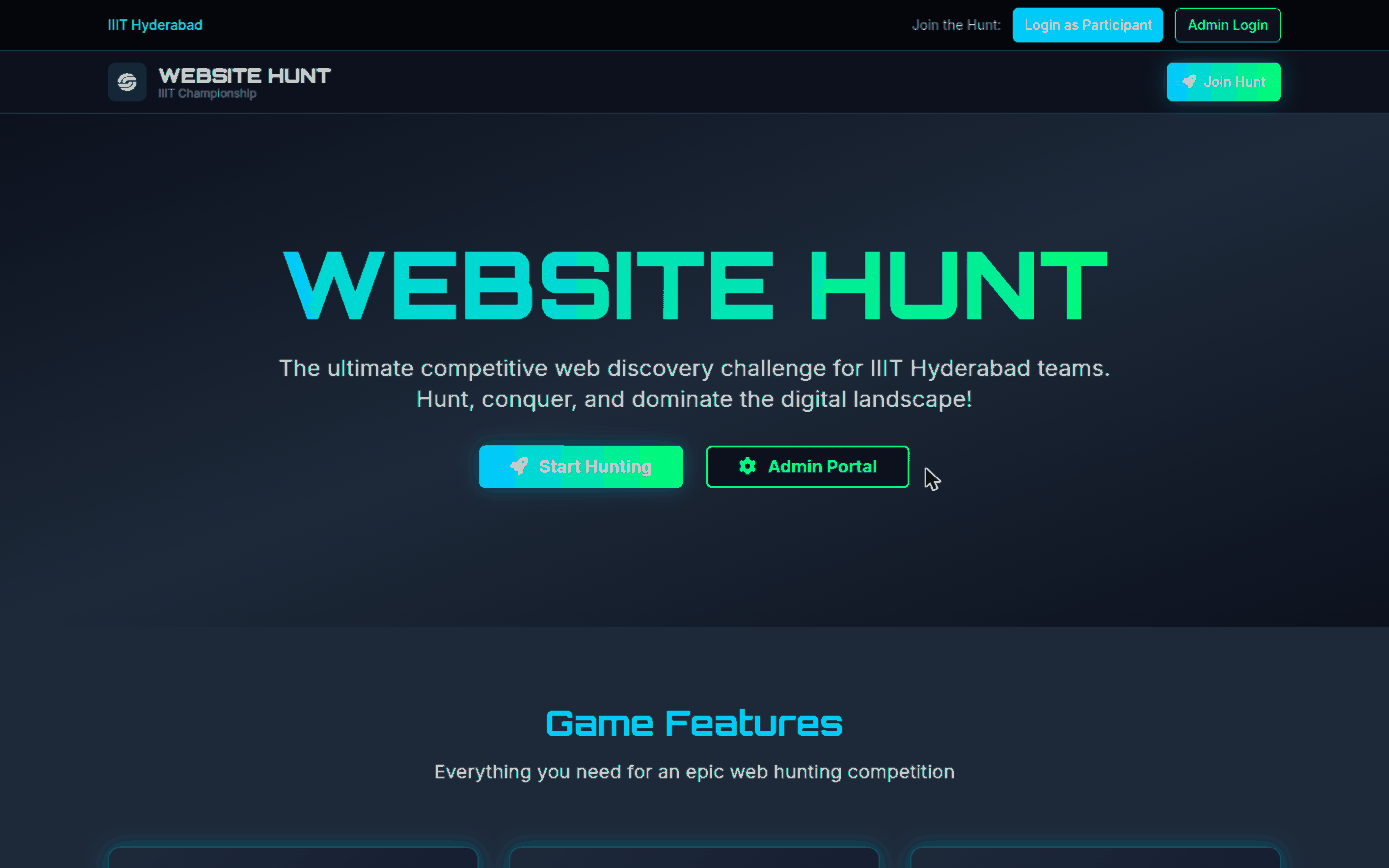
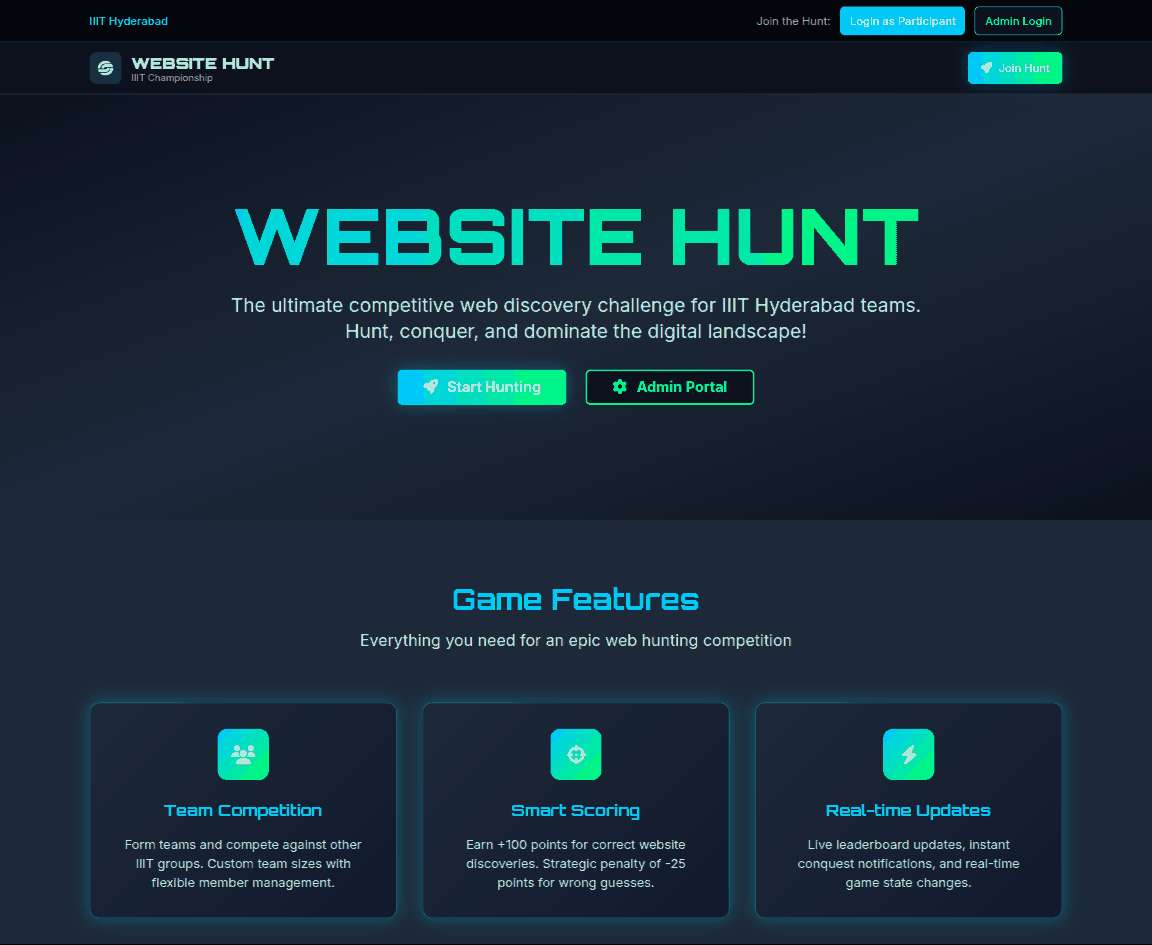
Complete the screenshot gallery with ten screens and a responsive row, and fix the nav breakpoint and admin header overlap they exposed

diff --git a/client/src/components/Navigation.tsx b/client/src/components/Navigation.tsx
@@ -75,13 +75,16 @@ export default function Navigation() {
             {/* Hamburger Menu */}
             <button
               onClick={() => setMenuOpen(!menuOpen)}
-              className="md:hidden text-gray-400 hover:text-white focus:outline-none"
+              className="lg:hidden text-gray-400 hover:text-white focus:outline-none"
             >
               <i className={`fas ${menuOpen ? "fa-times" : "fa-bars"} text-xl`}></i>
             </button>
 
             {/* Desktop Menu */}
-            <div className="hidden md:flex items-center space-x-8">
+            {/* The desktop bar only fits from 1024px: at tablet widths the links,
+                the user block and the admin badge crowd into each other, so the
+                drawer stays in charge up to lg. */}
+            <div className="hidden lg:flex items-center space-x-8">
               {user && (
                 <>
                   <Link
@@ -118,7 +121,7 @@ export default function Navigation() {
             </div>
 
             {/* User Info */}
-            <div className="hidden md:flex items-center space-x-4">
+            <div className="hidden lg:flex items-center space-x-4">
               {isLoading ? (
                 <div className="flex items-center space-x-3">
                   <div className="w-8 h-8 bg-gaming-gray rounded-full animate-pulse"></div>
@@ -177,7 +180,7 @@ export default function Navigation() {
 
         {/* Mobile Menu */}
         {menuOpen && user && (
-          <div className="md:hidden px-4 pb-4 bg-gaming-dark space-y-2">
+          <div className="lg:hidden px-4 pb-4 bg-gaming-dark space-y-2">
             <div className="flex items-center text-sm text-gray-400">
               <i className="fas fa-globe mr-2"></i>Live Game
               <div className="w-2 h-2 bg-neon-green rounded-full ml-2 animate-pulse"></div>

diff --git a/client/src/components/AdminPanel.tsx b/client/src/components/AdminPanel.tsx
@@ -452,7 +452,9 @@ export default function AdminPanel() {
       {activeTab === "teams" && (
         <div className="space-y-6">
           <Card className="conquest-card border-none">
-            <CardHeader className="flex flex-row items-center justify-between">
+            {/* Wraps: on a phone the title and the button are wider than the card
+                together, and without this they overlap. */}
+            <CardHeader className="flex flex-row flex-wrap items-center justify-between gap-3">
               <CardTitle className="text-electric-blue flex items-center">
                 <i className="fas fa-users mr-3"></i>
                 Team Management

diff --git a/README.md b/README.md
@@ -34,6 +34,7 @@ submission for a site that is not on the list is checked live, and counts if it 
 
 - [Why this project matters](#why-this-project-matters)
 - [Screenshots](#screenshots)
+- [Responsive layout](#responsive-layout)
 - [Features](#features)
 - [Roles](#roles)
 - [The game lifecycle](#the-game-lifecycle)
@@ -65,29 +66,86 @@ than pulled from a CDN.
 
 ## Screenshots
 
-Real 1440x900 viewport renders against a seeded instance. **The app ships a single dark
-theme**, so unlike the other projects in this account there is no light gallery and no
-`README-light.md` to toggle to.
+Real viewport renders against a seeded instance with five registered teams and a
+live game running. **The app ships a single dark theme**, so unlike the other
+projects in this account there is no light gallery and no `README-light.md` to
+toggle to.
 
 <table>
   <tr>
-    <td width="50%" valign="top">
-      <img src="./docs/screenshots/01-landing.png" alt="The landing page with the Website Hunt title and game features" loading="lazy">
+    <td width="33%" valign="top">
+      <img src="./docs/screenshots/01-landing.png" alt="Landing page with the Website Hunt title, Start Hunting and Admin Portal buttons, and the game feature cards" loading="lazy">
       <p align="center"><b>Landing</b><br><sub>Where a team starts, before anyone has an account.</sub></p>
     </td>
-    <td width="50%" valign="top">
-      <img src="./docs/screenshots/02-auth.png" alt="The login and register panel beside a summary of the rules" loading="lazy">
-      <p align="center"><b>Sign in</b><br><sub>Register or log in, with the scoring rules alongside.</sub></p>
+    <td width="33%" valign="top">
+      <img src="./docs/screenshots/02-auth.png" alt="Login panel beside a summary of the scoring rules" loading="lazy">
+      <p align="center"><b>Sign in</b><br><sub>Log in, with the scoring rules alongside.</sub></p>
+    </td>
+    <td width="33%" valign="top">
+      <img src="./docs/screenshots/06-register.png" alt="Registration form asking for name, username, email and password" loading="lazy">
+      <p align="center"><b>Register</b><br><sub>Anyone can sign up; an admin puts them on a team.</sub></p>
     </td>
   </tr>
   <tr>
-    <td width="50%" valign="top">
-      <img src="./docs/screenshots/03-dashboard.png" alt="Participant dashboard with total websites, conquered count and a countdown" loading="lazy">
+    <td width="33%" valign="top">
+      <img src="./docs/screenshots/03-dashboard.png" alt="Participant dashboard with total websites, conquered count, active teams and a countdown" loading="lazy">
       <p align="center"><b>Participant</b><br><sub>Live counts, the clock, and your team's standing.</sub></p>
     </td>
-    <td width="50%" valign="top">
-      <img src="./docs/screenshots/04-admin.png" alt="Admin control centre with overview, game control, teams and websites tabs" loading="lazy">
-      <p align="center"><b>Admin</b><br><sub>Run the clock, manage teams, and see discovered sites.</sub></p>
+    <td width="33%" valign="top">
+      <img src="./docs/screenshots/04-conquest.png" alt="A successful conquest showing the points earned and the team's updated score" loading="lazy">
+      <p align="center"><b>A conquest</b><br><sub>The URL is canonicalised before it is sent, then scored.</sub></p>
+    </td>
+    <td width="33%" valign="top">
+      <img src="./docs/screenshots/05-leaderboard.png" alt="Live leaderboard ranking five teams by points, with a global activity feed underneath" loading="lazy">
+      <p align="center"><b>Leaderboard</b><br><sub>Ranked live, with every team's conquests as they land.</sub></p>
+    </td>
+  </tr>
+  <tr>
+    <td width="33%" valign="top">
+      <img src="./docs/screenshots/07-admin-overview.png" alt="Admin overview with total websites, conquered, active teams, player-discovered count and game status" loading="lazy">
+      <p align="center"><b>Admin overview</b><br><sub>Including how many sites the players found themselves.</sub></p>
+    </td>
+    <td width="33%" valign="top">
+      <img src="./docs/screenshots/08-admin-teams.png" alt="Team management listing five teams with their points, members and conquest counts" loading="lazy">
+      <p align="center"><b>Teams</b><br><sub>Create a team and put registered users on it.</sub></p>
+    </td>
+    <td width="33%" valign="top">
+      <img src="./docs/screenshots/10-admin-websites.png" alt="Website management with a bulk add box and the ten current target sites" loading="lazy">
+      <p align="center"><b>Websites</b><br><sub>Paste the target list in bulk; conquered sites are marked.</sub></p>
+    </td>
+  </tr>
+  <tr>
+    <td width="33%" valign="top">
+      <img src="./docs/screenshots/09-admin-game-control.png" alt="Game session control with pause and end buttons while a game is running" loading="lazy">
+      <p align="center"><b>Game control</b><br><sub>Start the clock, pause it, end the round.</sub></p>
+    </td>
+    <td width="33%" valign="top"></td>
+    <td width="33%" valign="top"></td>
+  </tr>
+</table>
+
+## Responsive layout
+
+The event is run from phones as often as laptops. Each of these is a single render
+at that exact viewport, not a scaled-down desktop shot.
+
+<table>
+  <tr>
+    <td width="26%" valign="top">
+      <img src="./docs/screenshots/responsive/phone-landing.png" alt="Landing page on a 390x844 phone viewport" loading="lazy">
+      <p align="center"><b>Phone, 390x844</b><br><sub>The landing page, with both ways in above the fold.</sub></p>
+    </td>
+    <td width="26%" valign="top">
+      <img src="./docs/screenshots/responsive/phone-dashboard.png" alt="Team dashboard and submission form on a 390x844 phone viewport" loading="lazy">
+      <p align="center"><b>Phone, playing</b><br><sub>Score, submission box and leaderboard stack in one column.</sub></p>
+    </td>
+    <td width="26%" valign="top">
+      <img src="./docs/screenshots/responsive/phone-admin.png" alt="Admin team management on a 390x844 phone viewport" loading="lazy">
+      <p align="center"><b>Phone, admin</b><br><sub>The tab strip scrolls; the panel is usable one-handed.</sub></p>
+    </td>
+    <td width="22%" valign="top">
+      <img src="./docs/screenshots/responsive/tablet-admin.png" alt="Admin overview on an 820x1180 tablet viewport" loading="lazy">
+      <p align="center"><b>Tablet, 820x1180</b><br><sub>Stat cards go two-up; the nav stays in the drawer.</sub></p>
     </td>
   </tr>
 </table>

diff --git a/not_for_you.md b/not_for_you.md
@@ -52,3 +52,37 @@ The four remaining dev-only advisories are `esbuild` via `drizzle-kit`. drizzle-
 - **No tests at all.** `scripts/smoke-test.sh` exists and is a shell script hitting endpoints, not a suite. CI now proves the app typechecks, builds, migrates, seeds, reseeds and serves, which is a floor. `shared/url.ts` is the piece that most deserves unit tests: it decides whether two strings are the same website, and getting that wrong means teams are wrongly charged for duplicates.
 - The shell scripts under `scripts/` are full of emoji (✅ ❌ 🚀 and so on). Left alone deliberately: they are operator-facing console output where the emoji carry status at a glance, not product copy or documentation.
 - `Continue with Google` is wired to OAuth that needs credentials nobody has set. It renders as a live button that fails if pressed.
+
+## Screenshots, second pass
+
+The first pass produced four images and stopped there because the browser
+extension dropped mid-capture. Redone properly against a fully seeded instance:
+**ten desktop screens and four responsive ones**, all real viewport renders.
+
+Setting the instance up meant playing the game rather than writing rows: a demo
+team registered through the app's own form, four more accounts through the same
+`/api/register` the form posts to, five teams created from the admin panel, a
+90-minute session started, and ten sites conquered in varied URL shapes -
+`cvit.iiit.ac.in`, `HTTPS://Library.IIIT.ac.in/`, `www.ltrc.iiit.ac.in/#about`,
+`students.iiit.ac.in/index.html`, `  WWW.IIIT.ac.in/  `. Every one of those was
+accepted against the canonical form, which is the app's whole thesis demonstrated
+rather than asserted. The deep link `admissions.iiit.ac.in/apply` scored against
+the listed root, as designed.
+
+That leaves the leaderboard, the activity feed and the admin panels showing real
+standings instead of zeroes, which is the entire reason for doing it this way.
+
+## Two responsive bugs the phone shots exposed
+
+- **The nav bar switched to the desktop layout at 768px**, where it does not fit:
+  the links, the user block and the admin badge crowded into each other on a
+  tablet. Moved the whole switch to `lg`, so the drawer stays in charge up to
+  1024px.
+- **"Team Management" and its "Add Team" button overlapped on a phone.** The
+  `CardHeader` was `flex flex-row items-center justify-between` with no wrap, so
+  at 390px the button sat on top of the title. `flex-wrap` plus a gap; the button
+  now drops below the heading.
+
+Neither would have been found without rendering at those exact sizes. The tab
+strip inside the admin panel looks clipped in the phone screenshot: it is not, it
+is `overflow-x-auto` and scrolls - the capture harness hides scrollbars.
